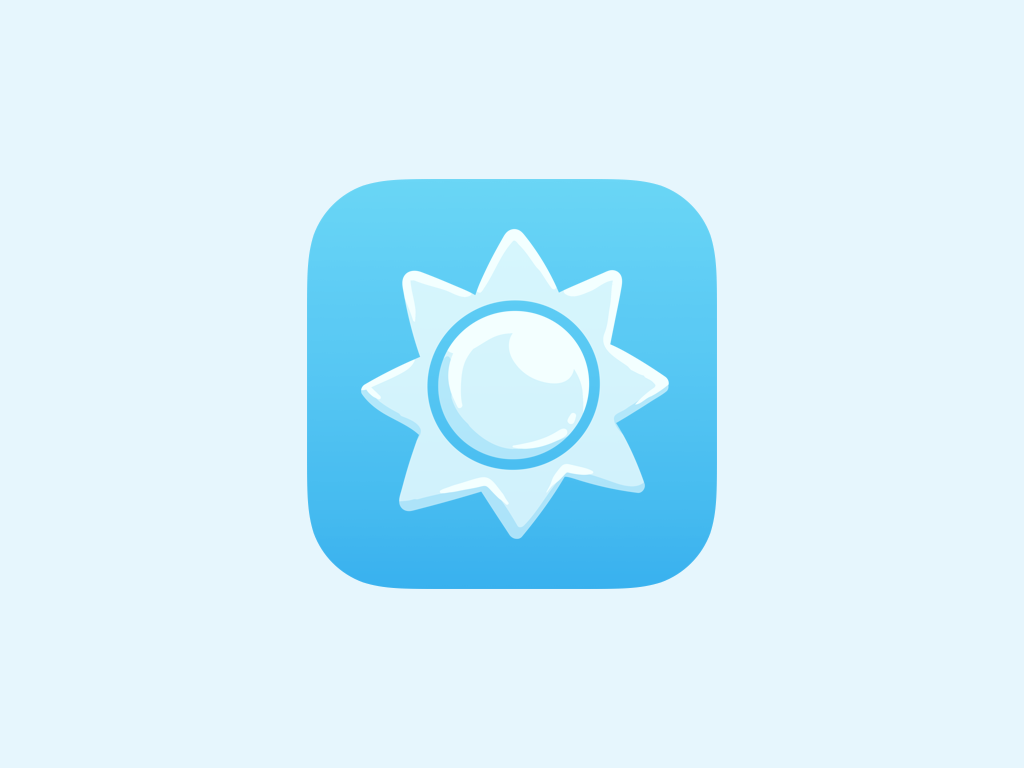
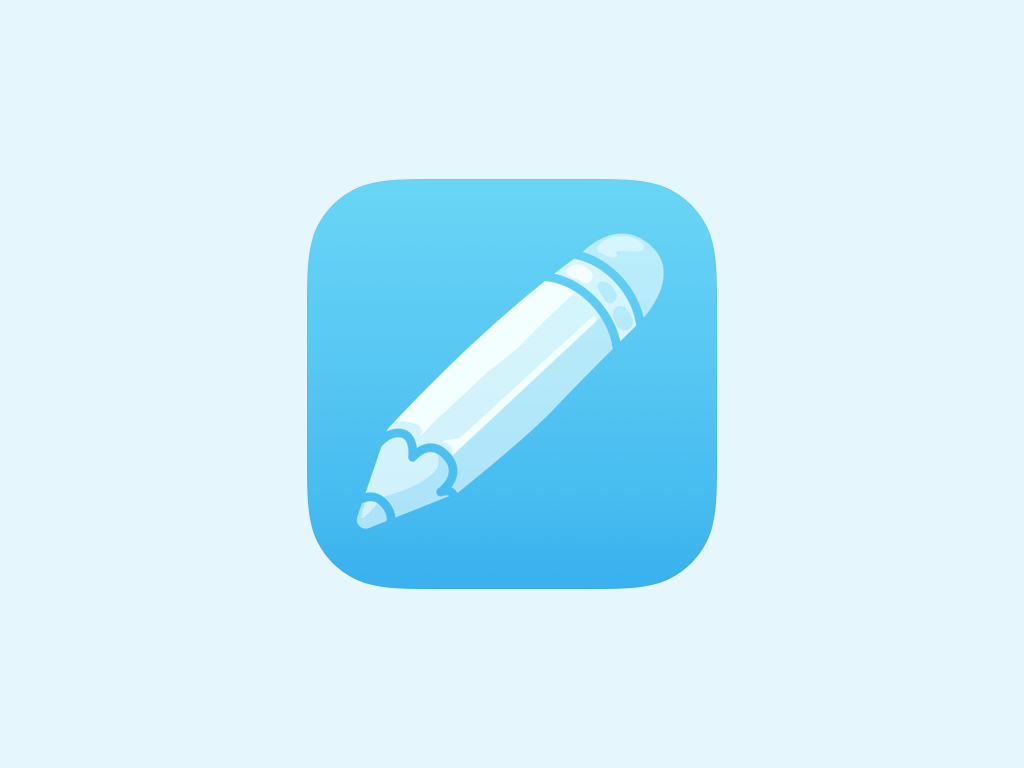
Microphone now being read
Cont.

Changed region(s): [[0.3438, 0.2812, 0.6562, 0.7188]]

diff --git a/Martin Maly - Swift Student Challenge Submission.swiftpm/Manager/MicrophoneManager.swift b/Martin Maly - Swift Student Challenge Submission.swiftpm/Manager/MicrophoneManager.swift
@@ -1,0 +1,241 @@
+import SwiftUI
+
+
+import AVFoundation
+import Accelerate
+
+//This code is heavily based on sample project: https://developer.apple.com/documentation/accelerate/visualizing_sound_as_an_audio_spectrogram
+class MicrophoneManager: NSObject, ObservableObject {
+    @Published var microphoneReading: Float?
+    
+    //MARK: - Initialization
+    let captureSession = AVCaptureSession()
+    let audioOutput = AVCaptureAudioDataOutput()
+    
+    //MARK: - Queues & Semaphores
+    let captureQueue = DispatchQueue(
+        label: "captureQueue",
+        qos: .userInitiated,
+        attributes: [],
+        autoreleaseFrequency: .workItem
+    )
+    
+    let sessionQueue = DispatchQueue(
+        label: "sessionQueue",
+        attributes: [],
+        autoreleaseFrequency: .workItem
+    )
+    
+    let dispatchSemaphore = DispatchSemaphore(value: 1)
+    
+    //MARK: - 🤷🏻♂
+    let forwardDCT = vDSP.DCT(
+        count: Constants.AudioProcessing.sampleCount.rawValue,
+        transformType: .II
+    )!
+    
+    let hanningWindow = vDSP.window(
+        ofType: Float.self,
+        usingSequence: .hanningDenormalized,
+        count: Constants.AudioProcessing.sampleCount.rawValue,
+        isHalfWindow: false
+    )
+    
+    //MARK: - Arrays storing audio data
+    private var microphoneFrequencyReadings = [Float]()
+    private var rawAudioData = [Int16]()
+    private var timeDomainBuffer = [Float](
+        repeating: 0,
+        count: Constants.AudioProcessing.sampleCount.rawValue
+    )
+    private var frequencyDomainBuffer = [Float](
+        repeating: 0,
+        count: Constants.AudioProcessing.sampleCount.rawValue
+    )
+    
+    //MARK: - Initialization
+    override init() {
+        super.init()
+        configureCaptureSession()
+        audioOutput.setSampleBufferDelegate(
+            self,
+            queue: captureQueue
+        )
+    }
+    
+    required init?(coder: NSCoder) {
+        fatalError("init(coder:) has not been implemented")
+    }
+    
+    //MARK: - Configuring and running capture session
+    private func configureCaptureSession() {
+        switch AVCaptureDevice.authorizationStatus(for: .audio) {
+        case .authorized:
+            break
+        case .notDetermined:
+            sessionQueue.suspend()
+            AVCaptureDevice.requestAccess(
+                for: .audio,
+                completionHandler: { granted in
+                    if !granted {
+                        fatalError("App requires microphone access.")
+                    } else {
+                        self.configureCaptureSession()
+                        self.sessionQueue.resume()
+                    }
+                }
+            )
+            return
+        default:
+            fatalError("App requires microphone access.")
+        }
+        
+        captureSession.beginConfiguration()
+        
+        if captureSession.canAddOutput(audioOutput) {
+            captureSession.addOutput(audioOutput)
+        } else {
+            fatalError("Can't add `audioOutput`.")
+        }
+        
+        guard let microphone = AVCaptureDevice.default(
+            .builtInMicrophone,
+            for: .audio,
+            position: .unspecified
+        ),
+              let microphoneInput = try? AVCaptureDeviceInput(device: microphone) else {
+            fatalError("Can't create microphone.")
+        }
+        
+        if captureSession.canAddInput(microphoneInput) {
+            captureSession.addInput(microphoneInput)
+        }
+        
+        captureSession.commitConfiguration()
+    }
+    
+    public func startRunning() {
+        sessionQueue.async {
+            guard AVCaptureDevice.authorizationStatus(for: .audio) == .authorized else {
+                fatalError("Not authorized for microphone use")
+            }
+            self.captureSession.startRunning()
+        }
+    }
+}
+
+extension MicrophoneManager: AVCaptureAudioDataOutputSampleBufferDelegate {
+    public func captureOutput(
+        _ output: AVCaptureOutput,
+        didOutput sampleBuffer: CMSampleBuffer,
+        from connection: AVCaptureConnection
+    ) {
+        var audioBufferList = AudioBufferList()
+        var blockBuffer: CMBlockBuffer?
+        
+        CMSampleBufferGetAudioBufferListWithRetainedBlockBuffer(
+            sampleBuffer,
+            bufferListSizeNeededOut: nil,
+            bufferListOut: &audioBufferList,
+            bufferListSize: MemoryLayout.stride(ofValue: audioBufferList),
+            blockBufferAllocator: nil,
+            blockBufferMemoryAllocator: nil,
+            flags: kCMSampleBufferFlag_AudioBufferList_Assure16ByteAlignment,
+            blockBufferOut: &blockBuffer
+        )
+        
+        guard let data = audioBufferList.mBuffers.mData else {
+            return
+        }
+        
+        if self.rawAudioData.count < Constants.AudioProcessing.sampleCount.rawValue * 2 {
+            let actualSampleCount = CMSampleBufferGetNumSamples(sampleBuffer)
+            let ptr = data.bindMemory(to: Int16.self, capacity: actualSampleCount)
+            let buf = UnsafeBufferPointer(start: ptr, count: actualSampleCount)
+            rawAudioData.append(contentsOf: Array(buf))
+        }
+        
+        while self.rawAudioData.count >= Constants.AudioProcessing.sampleCount.rawValue {
+            let dataToProcess = Array(self.rawAudioData[0 ..< Constants.AudioProcessing.sampleCount.rawValue])
+            self.rawAudioData.removeFirst(Constants.AudioProcessing.hopCount.rawValue)
+            self.processData(values: dataToProcess)
+        }
+    }
+    
+    private func processData(values: [Int16]) {
+        dispatchSemaphore.wait()
+        
+        //math and pointer stuff
+        vDSP.convertElements(
+            of: values,
+            to: &timeDomainBuffer
+        )
+        vDSP.multiply(
+            timeDomainBuffer,
+            hanningWindow,
+            result: &timeDomainBuffer
+        )
+        forwardDCT.transform(
+            timeDomainBuffer,
+            result: &frequencyDomainBuffer
+        )
+        vDSP.absolute(
+            frequencyDomainBuffer,
+            result: &frequencyDomainBuffer
+        )
+        vDSP.convert(
+            amplitude: frequencyDomainBuffer,
+            toDecibels: &frequencyDomainBuffer,
+            zeroReference: Float(Constants.AudioProcessing.sampleCount.rawValue)
+        )
+        
+        //MARK: - process frequency values
+        
+        //First, we strip out the bottom 20 values out of the sepctrogram since those seem to always occur
+        let numberOfValuesToReplace = 35
+        frequencyDomainBuffer.replaceSubrange(0..<numberOfValuesToReplace, with: repeatElement(0, count: numberOfValuesToReplace))
+        
+        //This is code to set freqency value to MAX if over a certain threshold
+        /*
+         for (index, frequency) in frequencyDomainBuffer.enumerated() {
+         if frequency > 10 {
+         frequencyDomainBuffer[index] = 255
+         }
+         }
+         */
+        
+        //Add all frequency values together
+        let sumArray = frequencyDomainBuffer.reduce(0, +)
+        
+        //average out the past few readings
+        let microphoneReading  = averagePastMicrophoneReadings(
+            with: sumArray,
+            with: &microphoneFrequencyReadings,
+            maxElements: 10
+        )
+        
+        self.microphoneReading = microphoneReading
+        
+        dispatchSemaphore.signal()
+    }
+    
+    
+    //average out the last few readings to prevent outliers from drastically fucking anything up
+    private func averagePastMicrophoneReadings(
+        with newValue: Float,
+        with readings: inout [Float],
+        maxElements: Int = 10
+    ) -> Float {
+        if readings.count >= maxElements {
+            _ = readings.removeFirst()
+        }
+        readings.append(newValue)
+        
+        let sumOfAllReadings = readings.reduce(0, +)
+        let numberOfReadings = Float(readings.count)
+        
+        let averageReading = sumOfAllReadings / numberOfReadings
+        
+        return averageReading
+    }
+}

diff --git a/Martin Maly - Swift Student Challenge Submission.swiftpm/BreathPlayApp.swift b/Martin Maly - Swift Student Challenge Submission.swiftpm/BreathPlayApp.swift
@@ -1,0 +1,22 @@
+import SwiftUI
+
+@main
+struct BreathPlayApp: App {
+    @Environment(\.scenePhase) private var scenePhase
+    
+    let microphoneManager = MicrophoneManager()
+    
+    var body: some Scene {
+        WindowGroup {
+            AppContainerView()
+                .environmentObject(microphoneManager)
+        }
+        .onChange(of: scenePhase) { phase in
+            if phase == .active {
+                Task(priority: .userInitiated) {
+                    microphoneManager.startRunning()
+                }
+            }
+        }
+    }
+}

diff --git a/Martin Maly - Swift Student Challenge Submission.swiftpm/ContentView.swift b/Martin Maly - Swift Student Challenge Submission.swiftpm/ContentView.swift
@@ -1,9 +1,15 @@
 import SwiftUI
 
-struct ContentView: View {
+struct AppContainerView: View {
+    @EnvironmentObject var microphoneManager: MicrophoneManager
+    
     var body: some View {
         VStack {
             Text("Breathwork!")
+            
+            if let microphoneReading = microphoneManager.microphoneReading {
+                Text("Microphone value: \(microphoneReading)!")
+            }
         }
     }
 }

diff --git a/Martin Maly - Swift Student Challenge Submission.swiftpm/Package.swift b/Martin Maly - Swift Student Challenge Submission.swiftpm/Package.swift
@@ -18,7 +18,7 @@ let package = Package(
             targets: ["AppModule"],
             displayVersion: "1.0",
             bundleVersion: "1",
-            appIcon: .placeholder(icon: .sun),
+            appIcon: .placeholder(icon: .pencil),
             accentColor: .presetColor(.cyan),
             supportedDeviceFamilies: [
                 .pad,

diff --git a/Martin Maly - Swift Student Challenge Submission.swiftpm/Supporting Files/Constants.swift b/Martin Maly - Swift Student Challenge Submission.swiftpm/Supporting Files/Constants.swift
@@ -1,0 +1,12 @@
+import SwiftUI
+
+//This can be changed by user depending on the room they're in
+var breathAudioSensitivityValue = 200
+
+enum Constants {
+    enum AudioProcessing: Int {
+        case sampleCount = 1024
+        case bufferCount = 768
+        case hopCount = 512
+    }
+}
